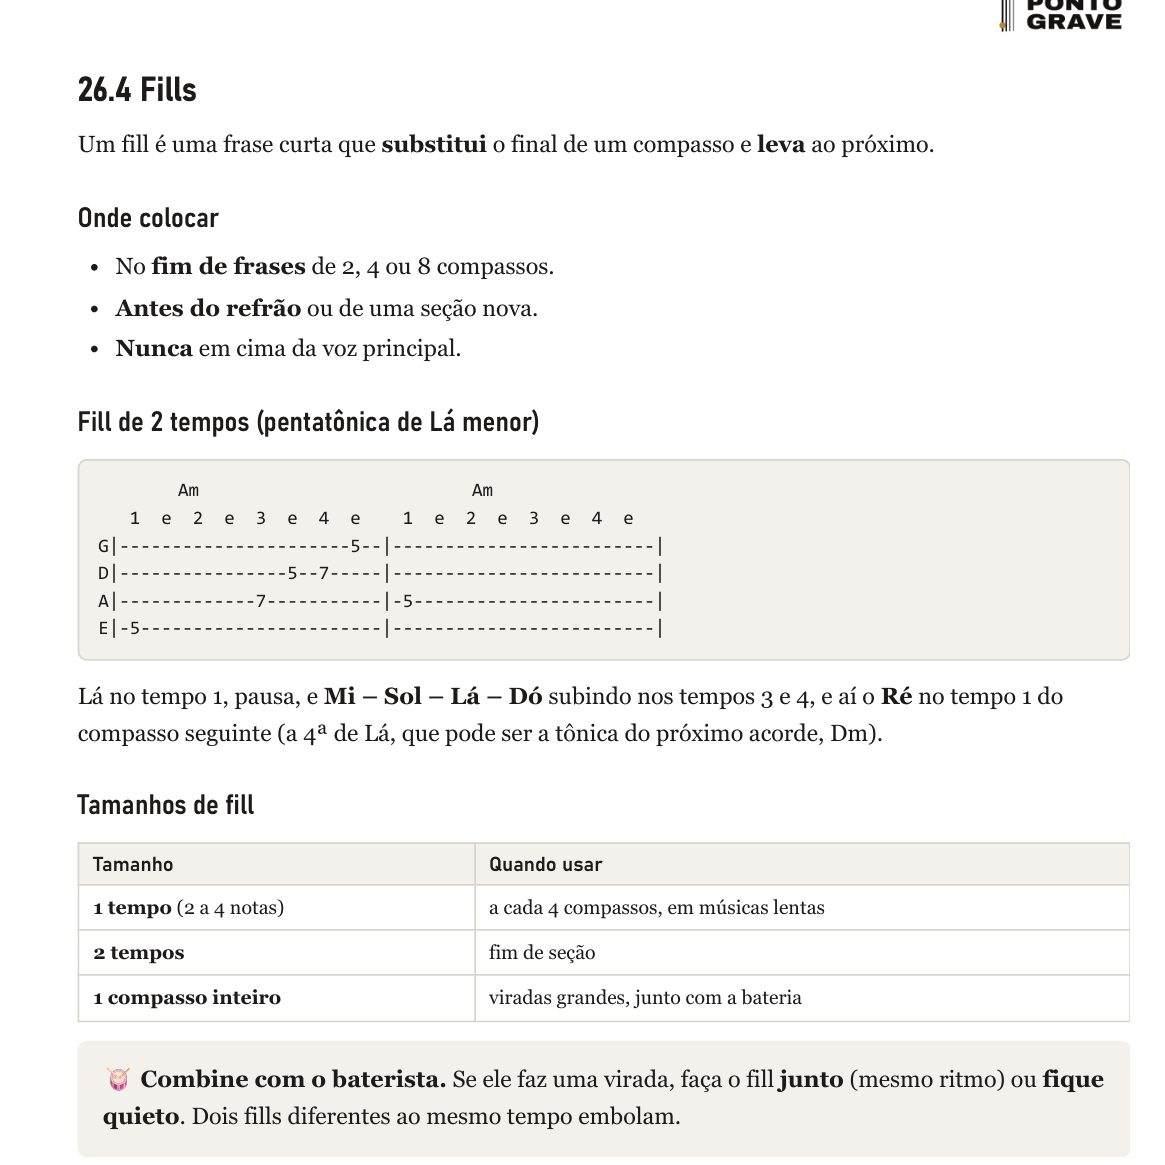
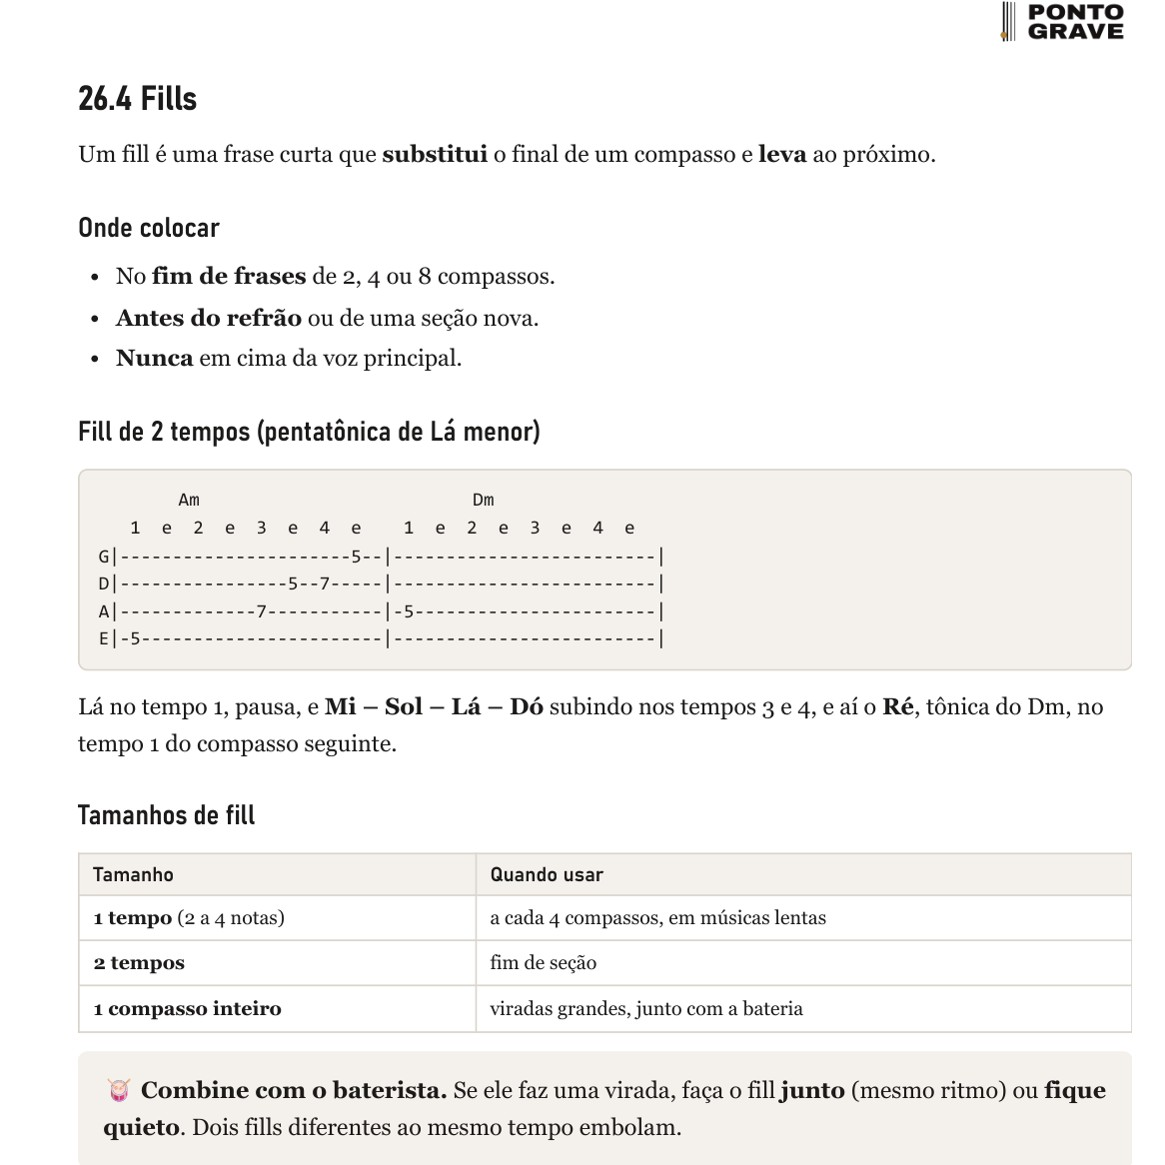
Cinco Notas: página dos fills atualizada (Am–Dm)

diff --git a/livros/cinco-notas/index.html b/livros/cinco-notas/index.html
@@ -78,7 +78,7 @@ gtag('js',new Date());gtag('config','G-DQKNDTQTC2');</script>
 </div></section>
 <section class="secao" style="padding-top:0"><div class="wrap">
   <div class="cab-secao"><div><span class="rot">Folheie o livro</span><h2 class="titulo-letras">145 páginas para <span class="o">tocar, não só ler.</span></h2></div></div>
-  <div class="folhear"><figure class="revelar" style="--atraso:0s"><img src="/assets/img/livro-pag-desenhos.jpg?v=cb77a577" alt="Página do livro: Os 5 desenhos, casa por casa" loading="lazy" width="1150" height="1150"><figcaption>Os 5 desenhos, casa por casa</figcaption></figure><figure class="revelar" style="--atraso:0.08s"><img src="/assets/img/livro-pag-blues.jpg?v=53096ad6" alt="Página do livro: Escala blues e a blue note" loading="lazy" width="1150" height="1150"><figcaption>Escala blues e a blue note</figcaption></figure><figure class="revelar" style="--atraso:0.16s"><img src="/assets/img/livro-pag-fills.jpg?v=bf6d14ed" alt="Página do livro: Fills prontos em tablatura" loading="lazy" width="1150" height="1150"><figcaption>Fills prontos em tablatura</figcaption></figure><figure class="revelar" style="--atraso:0.24s"><img src="/assets/img/livro-pag-plano.jpg?v=bcf600b9" alt="Página do livro: Plano de estudos de 30, 60 e 90 dias" loading="lazy" width="1150" height="1150"><figcaption>Plano de estudos de 30, 60 e 90 dias</figcaption></figure></div>
+  <div class="folhear"><figure class="revelar" style="--atraso:0s"><img src="/assets/img/livro-pag-desenhos.jpg?v=cb77a577" alt="Página do livro: Os 5 desenhos, casa por casa" loading="lazy" width="1150" height="1150"><figcaption>Os 5 desenhos, casa por casa</figcaption></figure><figure class="revelar" style="--atraso:0.08s"><img src="/assets/img/livro-pag-blues.jpg?v=53096ad6" alt="Página do livro: Escala blues e a blue note" loading="lazy" width="1150" height="1150"><figcaption>Escala blues e a blue note</figcaption></figure><figure class="revelar" style="--atraso:0.16s"><img src="/assets/img/livro-pag-fills.jpg?v=16cb094a" alt="Página do livro: Fills prontos em tablatura" loading="lazy" width="1150" height="1150"><figcaption>Fills prontos em tablatura</figcaption></figure><figure class="revelar" style="--atraso:0.24s"><img src="/assets/img/livro-pag-plano.jpg?v=bcf600b9" alt="Página do livro: Plano de estudos de 30, 60 e 90 dias" loading="lazy" width="1150" height="1150"><figcaption>Plano de estudos de 30, 60 e 90 dias</figcaption></figure></div>
   <ul class="lista-check revelar" style="margin-top:34px;columns:2;column-gap:40px"><li>145 páginas em 30 capítulos e 7 apêndices</li><li>Os 5 desenhos da pentatônica nos 12 tons</li><li>Mais de 90 tablaturas e exercícios</li><li>Linhas prontas em nove estilos, do blues ao metal</li><li>Técnica das duas mãos, slap, fills e improviso</li><li>Planos de estudo de 30, 60 e 90 dias</li></ul>
 </div></section>
 <section class="secao" style="padding-top:0"><div class="wrap autor revelar"><img src="/assets/img/marca-ponto-grave.png?v=3363b904" alt="Ponto Grave" width="240" height="240" loading="lazy"><div><span class="rot">Quem ensina</span><h2 style="font-size:clamp(28px,3.4vw,42px);margin:12px 0">Ponto Grave</h2><p class="sub" style="margin:0">Material feito por baixista, para baixista. Cada tablatura do livro foi conferida nota por nota, cada diagrama mostra o dedo de cada nota, e tudo foi pensado para quem estuda sozinho, em casa, com o baixo no colo. O objetivo é um só: você sair da tônica e tocar linhas que soam como música.</p></div></div></section>
